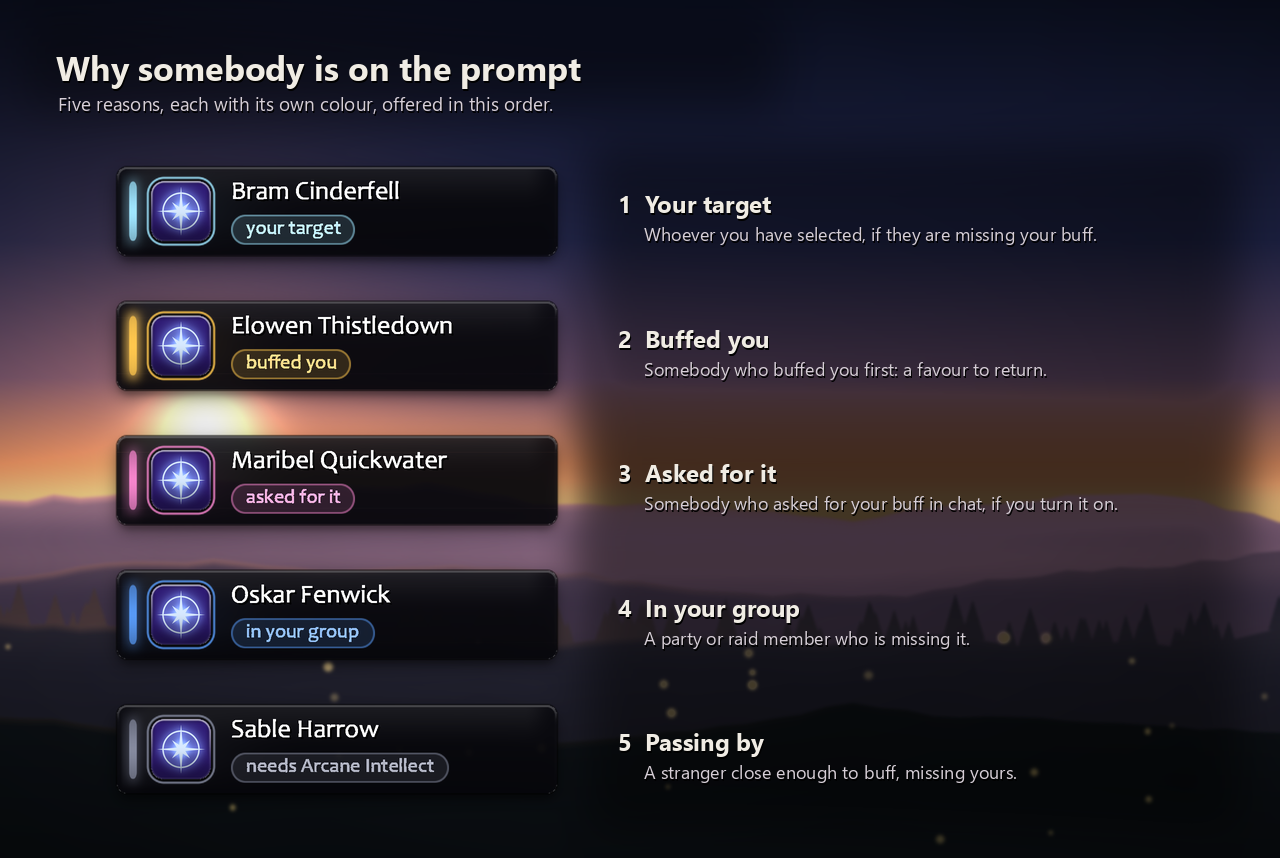
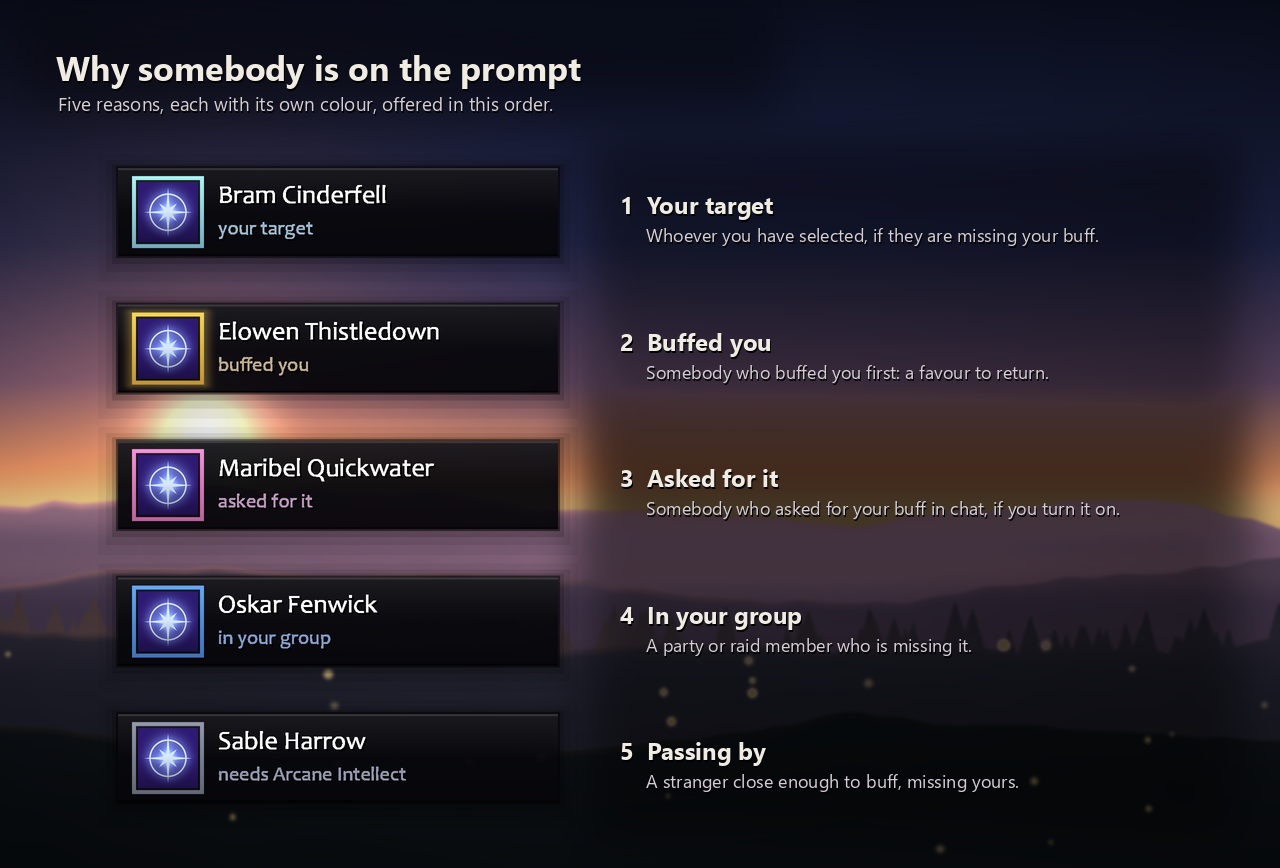
Manners 1.5.1: the new looks read in the game; speech on every buff; more lines shown
Luxe, Toast and Arcane draw the spell icon clean and their text on a dark
ground, checked by computed contrast rather than the preview; Glass is the
default again; "Say a line" speaks on every buff by default; the In
character box shows about 24 of your lines and the note names the 2,400.

diff --git a/tests/mutations/look-arcane.py b/tests/mutations/look-arcane.py
@@ -73,9 +73,11 @@ mutate(A, "\tcombatArtAlpha = 1,\n", "\tcombatArtAlpha = 0.55,\n",
        "Arcane dimmed whole in a fight",
        expect="art dimmed whole in a fight", script=S)
 
-mutate(A, "\tself.kit.icon:SetDesaturated(on)\n\tself:Spin()\n", "\tself:Spin()\n",
-       "Arcane's icon keeps its colour in a fight",
-       expect="the icon keeps its colour", script=S)
+# Retired in 1.5.1: "Arcane's icon keeps its colour in a fight". Since the
+# readability fix the icon is greyed both by Combat() and by every repaint
+# (and by an outcome in a fight), each alone enough, so taking out any one of
+# them changes nothing a player sees -- there is no single-line bug left to
+# put back. The scenario still checks the icon is grey in a fight.
 
 mutate(A, "\tSliceAlpha(self.bloom, fight and 0 or 1)\n", "\tSliceAlpha(self.bloom, 1)\n",
        "Arcane's bloom glows in a fight",

diff --git a/tests/mutations/look-toast.py b/tests/mutations/look-toast.py
@@ -239,7 +239,10 @@ mutate(TOAST,
        "\tif self.keyUp then inset = math.max(inset, self.keyRoom or 0) end\n",
        "",
        "the name runs under the key's chip",
-       expect="the name runs under the key's chip",
+       # With a key bound the count now pairs beside it (1.5.1), and the pair
+       # already keeps the name clear; the key's own room is what holds when
+       # the key's chip grows, which is the check that sees it.
+       expect="Toast gives the lines the new key's room",
        script="runscenarios.py")
 
 # --- the favour clock ------------------------------------------------------

diff --git a/.github/curseforge-description.md b/.github/curseforge-description.md
@@ -62,7 +62,7 @@ Favours you return also earn you a title, from *Well Brought Up* at 10 to *The V
 
 ### The prompt
 
-Six looks to choose from under Look > Style: **Luxe** (the default: a slim dark card with a stripe and a tag in the reason colour), **Toast** (a gilded banner with a medallion round the icon), **Arcane** (smoked glass, a turning rune circle and a keycap showing your key), and Glass, Framed and Minimal. Your own colours and fonts, and LibSharedMedia support. When a buff lands a ring pops out of the icon and light crosses the panel; a refused one gives a small shake. The icon shows the global cooldown sweep like an action bar. Set *Animations* to *Calm* if you would rather it kept still.
+Six looks to choose from under Look > Style: Glass (the default), Framed and Minimal, and three new ones -- **Luxe** (a slim dark card with a stripe and a tag in the reason colour), **Toast** (a gilded banner with a medallion round the icon), **Arcane** (smoked glass, a turning rune circle and a keycap showing your key). Your own colours and fonts, and LibSharedMedia support. When a buff lands a ring pops out of the icon and light crosses the panel; a refused one gives a small shake. The icon shows the global cooldown sweep like an action bar. Set *Animations* to *Calm* if you would rather it kept still.
 
 Leave the text colour at white and it turns dark by itself on a light panel. *Reason colours* under Look > Style has a colour-blind friendly set: pale yellow, orange, sky blue and violet.
 

diff --git a/CHANGELOG.md b/CHANGELOG.md
@@ -1,5 +1,24 @@
 # Changelog
 
+## 1.5.1
+
+- **The new looks read properly in the game.** Luxe's reason tag could be
+  white on white (a passer-by's "needs Arcane Intellect"), Toast put gold text
+  on a gold banner, and Arcane laid light over the spell icon. Now the spell
+  icon is drawn clean in all three -- only a ring around it -- the text always
+  sits on a dark ground, and Luxe's tag and count are dark with the reason
+  colour round the edge. The count no longer sits on the icon.
+- **Glass is the default look again** while the new looks settle in. If you
+  picked Luxe, Toast or Arcane yourself, you keep it.
+- **"Say a line when I buff someone" now speaks every time you buff somebody.**
+  "Only when I buff someone back" was on underneath it by default, so buffing
+  a passer-by said nothing. It is off by default now; the two thank-you
+  choices on Start here still switch it on.
+- **In character shows far more of your lines.** The box on What I say now
+  holds about 24 of your own character's lines instead of 8, and the note
+  above it says how many the set really has -- over 2,400. Your saved set is
+  updated when you log in; lines you wrote yourself are never touched.
+
 ## 1.5.0
 
 The prompt gets three new looks, the options open again, and a big pass of

diff --git a/README.md b/README.md
@@ -254,7 +254,7 @@ a new title.
 
 ## The prompt's look
 
-Six looks -- Luxe (the default), Toast, Arcane, Glass, Framed and Minimal,
+Six looks -- Glass (the default), Framed, Minimal, Luxe, Toast and Arcane,
 under Look > Style > *Panel style* -- your own colours and fonts, and
 LibSharedMedia support. When a buff lands, a ring pops out of the icon and
 light crosses the panel; a refused one gives the text a small shake. Somebody
